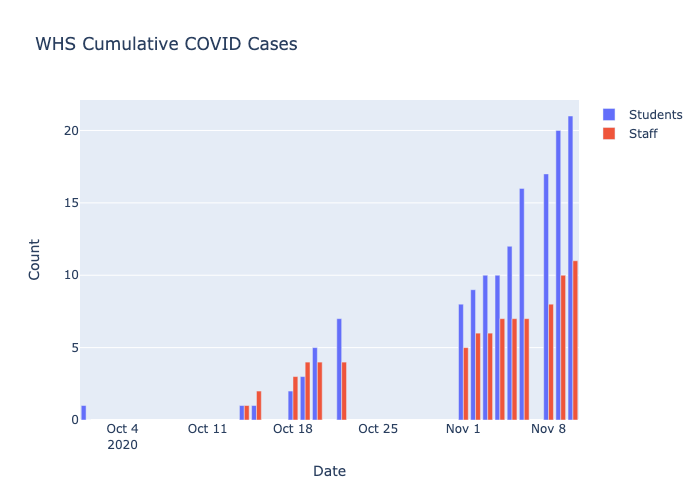
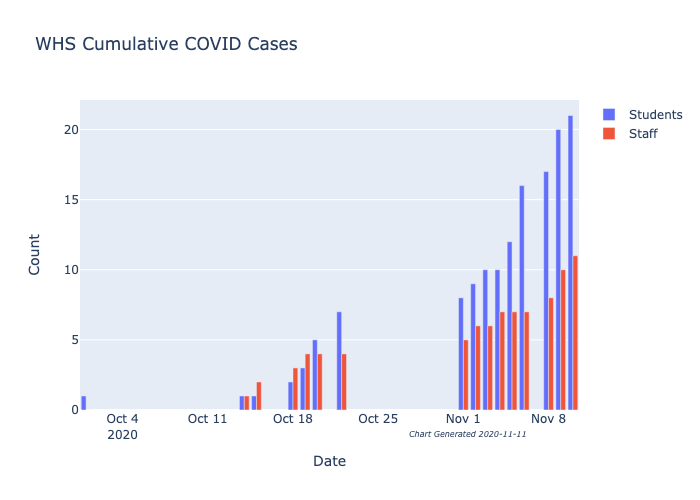
Annotated bar chart with date.

diff --git a/whs_7d.py b/whs_7d.py
@@ -49,7 +49,10 @@ pfig = go.Figure(data = [
 pfig.update_layout(barmode = 'group',
                    title = "WHS Cumulative COVID Cases ",
                    xaxis_title = 'Date',
-                   yaxis_title = 'Count'
+                   yaxis_title = 'Count',
+                   margin_b = 90,
+                   annotations = [dict(xref = 'paper', yref= 'paper', x = 0.9, y = -0.1, font = dict(size = 8),
+                                       showarrow = False, text = '<i>Chart Generated ' + current_date + "</i>")]
                    )
 pfig.show()
 pfig.write_image('images/WHS_CUMULATIVE_COVID_CURRENT.png')
